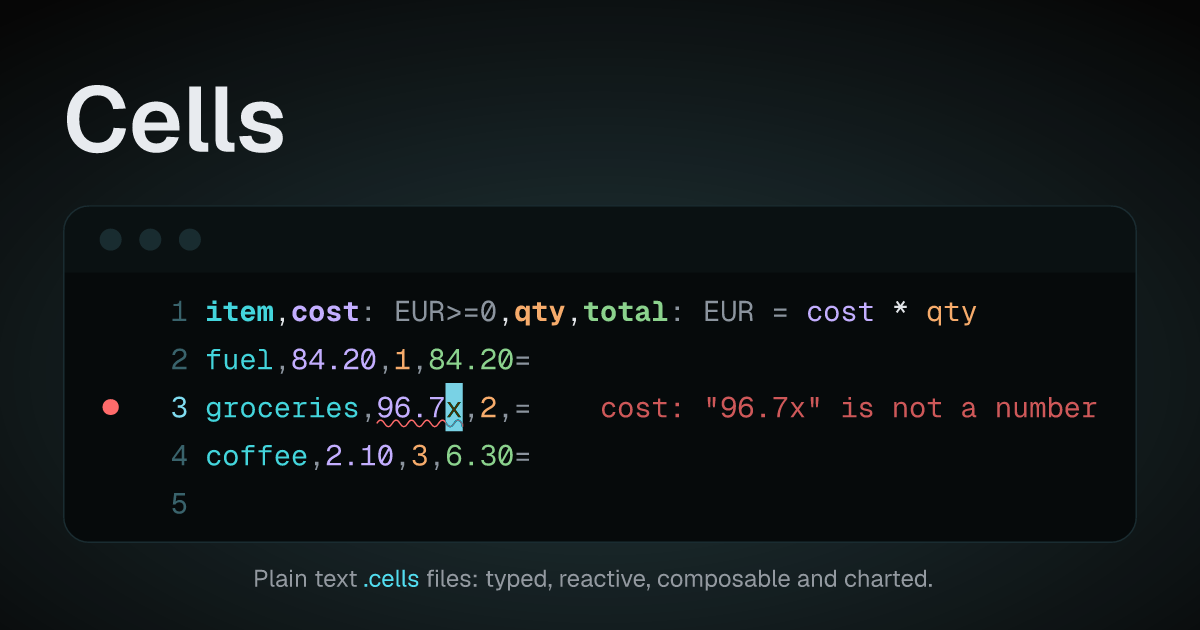
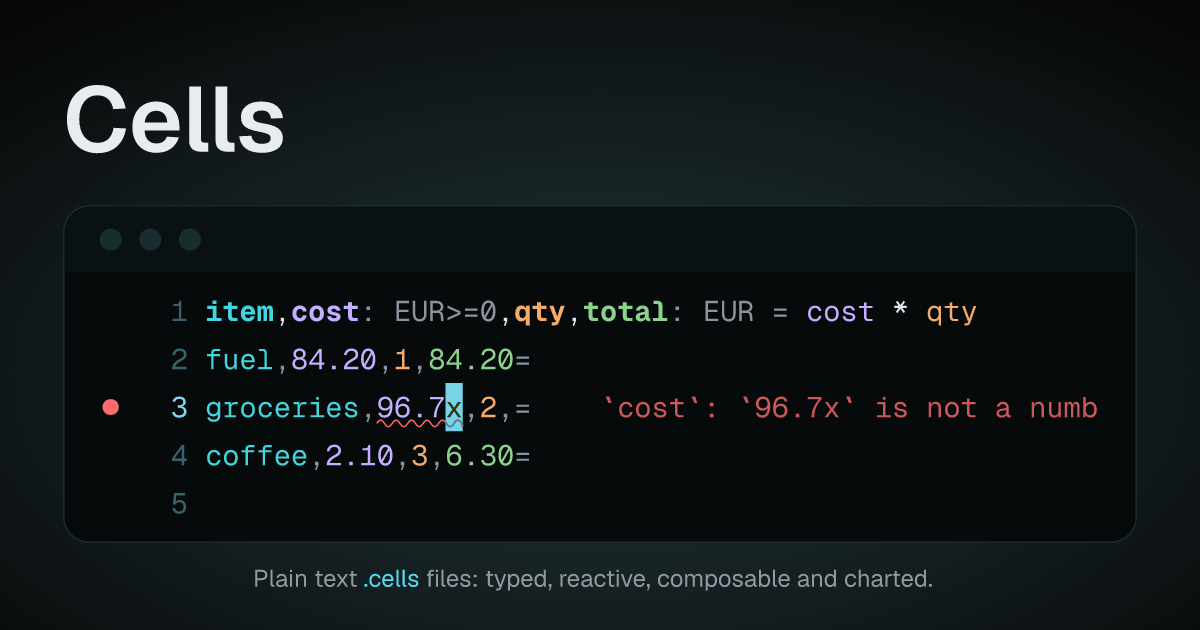
feat(site): the engine's words show what they quote as code
The Cells window's problems set each backticked part as <code>, read
by one helper (components/said.tsx) that reads code spans alone. The
editors drawn on the page print the backticks as an editor does, their
messages the language server's words. The walkthrough, the proofs and
the card say the engine's new words.

Changed region(s): [[0.4933, 0.6333, 0.925, 0.6635]]

diff --git a/web/components/said.tsx b/web/components/said.tsx
@@ -1,0 +1,59 @@
+// The engine's words as the page shows them: every part of the file a message names is
+// Markdown's inline code (rust/README.md, Messages), set here as <code>, the prose around
+// it plain. Only code spans are read, so a `*` or a `_` in the words is never emphasis.
+
+import * as React from "react"
+
+/** A message's pieces: plain words, and the file's own, each as its span holds it. */
+export function piecesOf(text: string): { code: boolean; text: string }[] {
+  const out: { code: boolean; text: string }[] = []
+  let plain = ""
+  let at = 0
+  while (at < text.length) {
+    if (text[at] !== "`") {
+      plain += text[at]
+      at++
+      continue
+    }
+    let run = 0
+    while (text[at + run] === "`") run++
+    const fence = "`".repeat(run)
+    // the span closes at the next run of exactly as many backticks
+    let close = text.indexOf(fence, at + run)
+    while (close !== -1 && (text[close + run] === "`" || text[close - 1] === "`")) {
+      let past = close
+      while (text[past] === "`") past++
+      close = text.indexOf(fence, past)
+    }
+    if (close === -1) {
+      plain += fence
+      at += run
+      continue
+    }
+    let inside = text.slice(at + run, close)
+    if (inside.startsWith(" ") && inside.endsWith(" ") && inside.trim() !== "") inside = inside.slice(1, -1)
+    if (plain) out.push({ code: false, text: plain })
+    plain = ""
+    out.push({ code: true, text: inside })
+    at = close + run
+  }
+  if (plain) out.push({ code: false, text: plain })
+  return out
+}
+
+/** A message of the engine's, its quoted parts as code. */
+export function Said({ text }: { text: string }) {
+  return (
+    <>
+      {piecesOf(text).map((p, i) =>
+        p.code ? (
+          <code key={i} className="font-mono text-white/85">
+            {p.text}
+          </code>
+        ) : (
+          <React.Fragment key={i}>{p.text}</React.Fragment>
+        ),
+      )}
+    </>
+  )
+}

diff --git a/web/lib/spans.ts b/web/lib/spans.ts
@@ -9,9 +9,9 @@ import type { Severity } from "@/lib/engine/cells.ts"
 export interface ProblemAt {
   row: number
   at: number
-  /** The column's name: a message on its own line says which cell it is about. */
-  column: string
-  reason: string
+  /** The engine's words, its place first (``row 3, `to`: …``): a message on its own line
+   *  says which cell it is about. */
+  why: string
   severity: Severity
   /** The characters that broke, inside the cell's text, when the engine says them. */
   span?: { start: number; length: number }
@@ -123,9 +123,10 @@ export function placeProblems(text: string, problems: readonly ProblemAt[]): Pla
     const [start, end] = field
     const from = p.span ? start + p.span.start : start
     const to = p.span ? from + Math.max(1, p.span.length) : Math.max(end, start + 1)
-    // The engine's own words without the row (the mark is on it): `to: "coffee" is no
-    // key of accounts`, never a bare `is missing`.
-    placed.push({ line: lineOf(from), from: columnOf(from), to: columnOf(from) + (to - from), message: `${p.column}: ${p.reason}`, severity: p.severity })
+    // The engine's own words without the row (the mark is on it), as `cells lsp` says them:
+    // ``` `to`: `coffee` is no key of `accounts` ```, never a bare `is missing`.
+    const message = p.why.replace(/^row \d+, /, "")
+    placed.push({ line: lineOf(from), from: columnOf(from), to: columnOf(from) + (to - from), message, severity: p.severity })
   }
   return placed
 }

diff --git a/web/lib/story.ts b/web/lib/story.ts
@@ -233,7 +233,7 @@ taxi,dan,18.40
       expect: {
         problems: [],
         values: { cost: [412, 540, 96.75, 18.4] },
-        between: [['row 2, cost: "54O.00" is not a number']],
+        between: [["row 2, `cost`: `54O.00` is not a number"]],
       },
     },
     {
@@ -279,7 +279,7 @@ taxi,dan,18.40
         { after: "dinner,", remove: 5, insert: "karla" },
       ],
       light: { column: "paid", row: 2 },
-      expect: { problems: ['row 3, paid: "karla" is no key of people'], between: [[], []] },
+      expect: { problems: ["row 3, `paid`: `karla` is no key of `people`"], between: [[], []] },
     },
     // ── the file: what it is, now the reader knows what it does ──
     {
@@ -288,7 +288,7 @@ taxi,dan,18.40
       doc: "/docs/spec/the-file",
       lead: "Underneath, it is plain text",
       rest: "Everything you just did is a few characters: the types in the header, each computed value beside its `=`, the other file imported between the `---` lines. Open it in Vim, Helix or any editor.",
-      expect: { problems: ['row 3, paid: "karla" is no key of people'] },
+      expect: { problems: ["row 3, `paid`: `karla` is no key of `people`"] },
     },
     {
       id: "editor",

diff --git a/web/scripts/og.ts b/web/scripts/og.ts
@@ -45,7 +45,7 @@ coffee,2.10,3
 /** As saved: what the language server's formatting writes (lib/view `savedAs`). */
 const text = savedAs(engine, { name, text: TYPED }, { name, text: TYPED }, [])
 const read = readFiles(engine, [{ name, text }])
-assert.deepEqual(read.problems.map((p) => p.why), ['row 2, cost: "96.7x" is not a number'], "the card's one problem")
+assert.deepEqual(read.problems.map((p) => p.why), ["row 2, `cost`: `96.7x` is not a number"], "the card's one problem")
 assert.deepEqual(read.broken, [], "the file's grammar reads whole")
 assert.deepEqual(read.values.total, [84.2, null, 6.3], "the totals, and none for the broken row")
 assert.equal(
@@ -77,7 +77,7 @@ const screen = await editorStill({
   diagnose: cellsDiagnose(engine),
   accent: ACCENT,
 })
-assert.equal(screen.rows[2]?.worst?.message, 'cost: "96.7x" is not a number', "helix says the engine's words")
+assert.equal(screen.rows[2]?.worst?.message, "`cost`: `96.7x` is not a number", "helix says the engine's words")
 assert.deepEqual(screen.status.counts, [{ severity: "error", n: 1 }])
 assert.ok(
   screen.rows.every((r) => !r || r.runs.reduce((n, x) => n + x.text.length, 0) + screen.gutter <= screen.columns),

diff --git a/web/components/cells-window.tsx b/web/components/cells-window.tsx
@@ -8,6 +8,7 @@ import * as React from "react"
 import { AppWindow } from "@/components/ui/app-window"
 import { Table, type TableColumn, type TableFace, type TableProblem } from "@/components/ui/table"
 import { ChartView } from "@/components/chart-view"
+import { Said } from "@/components/said"
 import type { ChartSummary, Tinted } from "@/lib/engine/cells.ts"
 
 /** A tint as a CSS colour: one of the ten names in the tokens' colour for it, a `#rrggbb`
@@ -320,7 +321,14 @@ export function CellsWindow({
           <span className={cn("w-[10ch] shrink-0 tabular-nums", !said.length ? "text-edge/80" : wrong ? "text-haze" : "text-tone-warn")}>
             {said.length ? `${said.length} ${said.length === 1 ? "problem" : "problems"}` : "no problems"}
           </span>
-          <span className="min-w-0 truncate text-white/60">{said.join(" · ")}</span>
+          <span className="min-w-0 truncate text-white/60">
+            {said.map((s, i) => (
+              <React.Fragment key={i}>
+                {i > 0 && " · "}
+                <Said text={s} />
+              </React.Fragment>
+            ))}
+          </span>
         </div>
       </div>
     </AppWindow>

diff --git a/web/lib/proofs.ts b/web/lib/proofs.ts
@@ -20,7 +20,7 @@ export const TRIP_FILES = [
   },
 ]
 /** The check's one problem, as the engine says it. */
-export const TRIP_PROBLEM = 'row 2, paid: "karla" is no key of people'
+export const TRIP_PROBLEM = "row 2, `paid`: `karla` is no key of `people`"
 
 /** The reveal's one file: the three tools at once, a spreadsheet's columns that compute, a
  *  database's link to another file checked, and a script's table kept current. Read with
